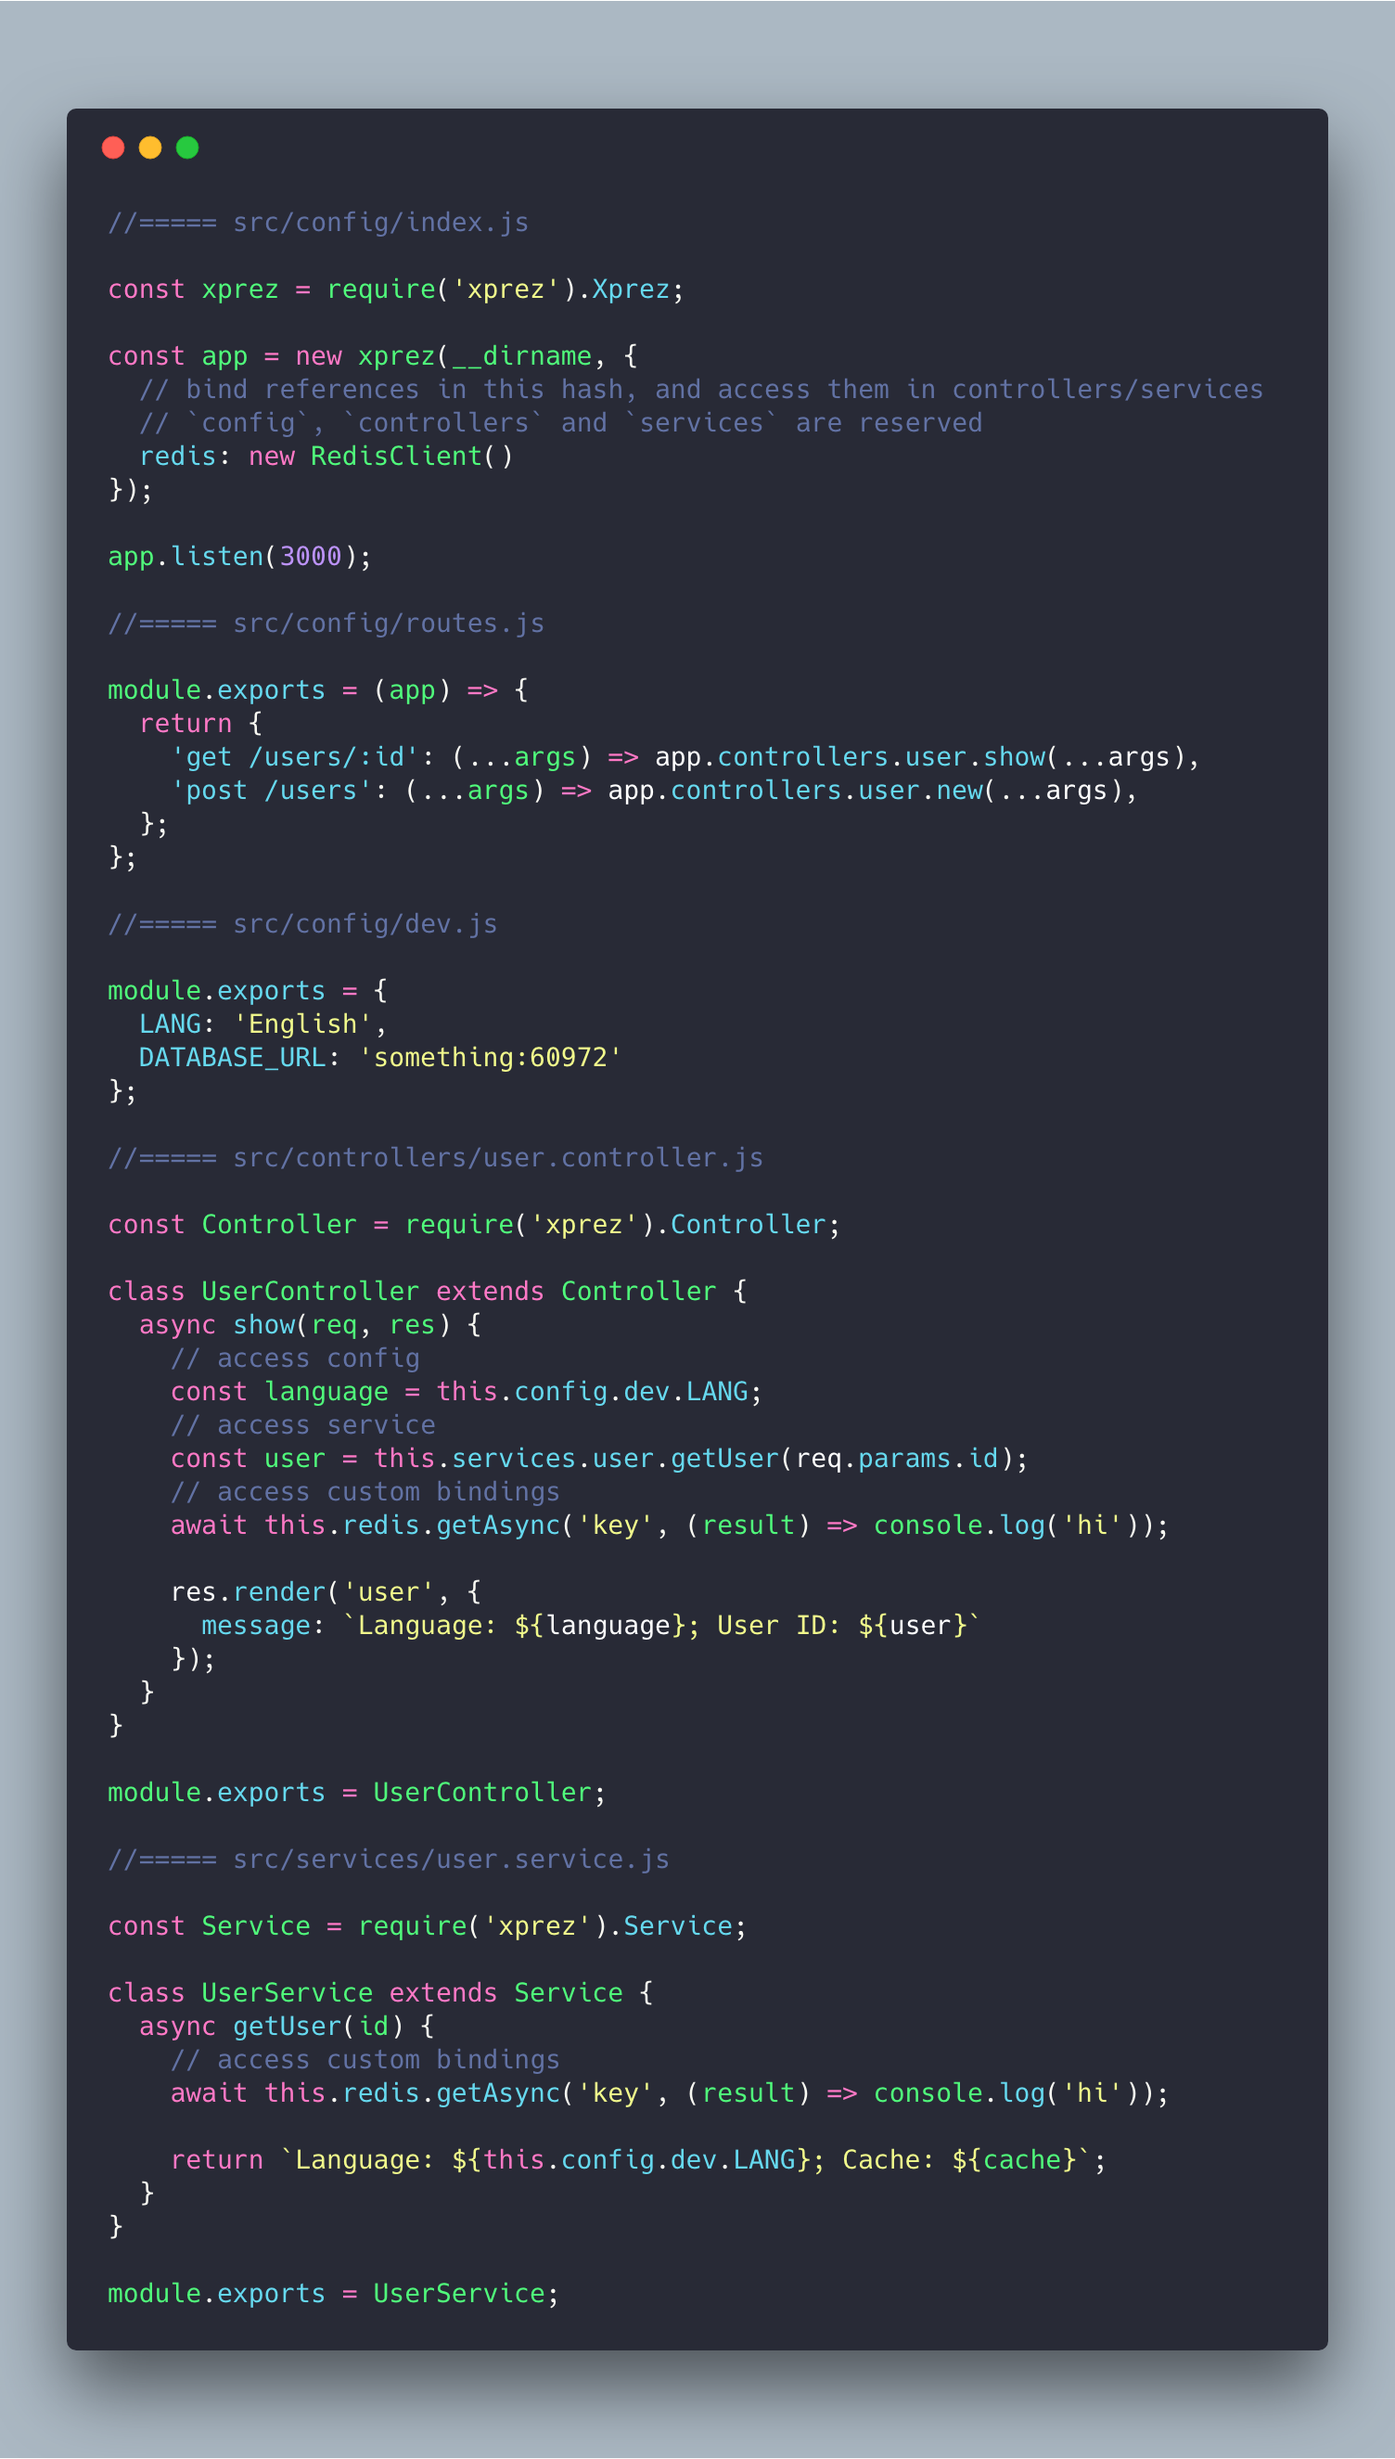
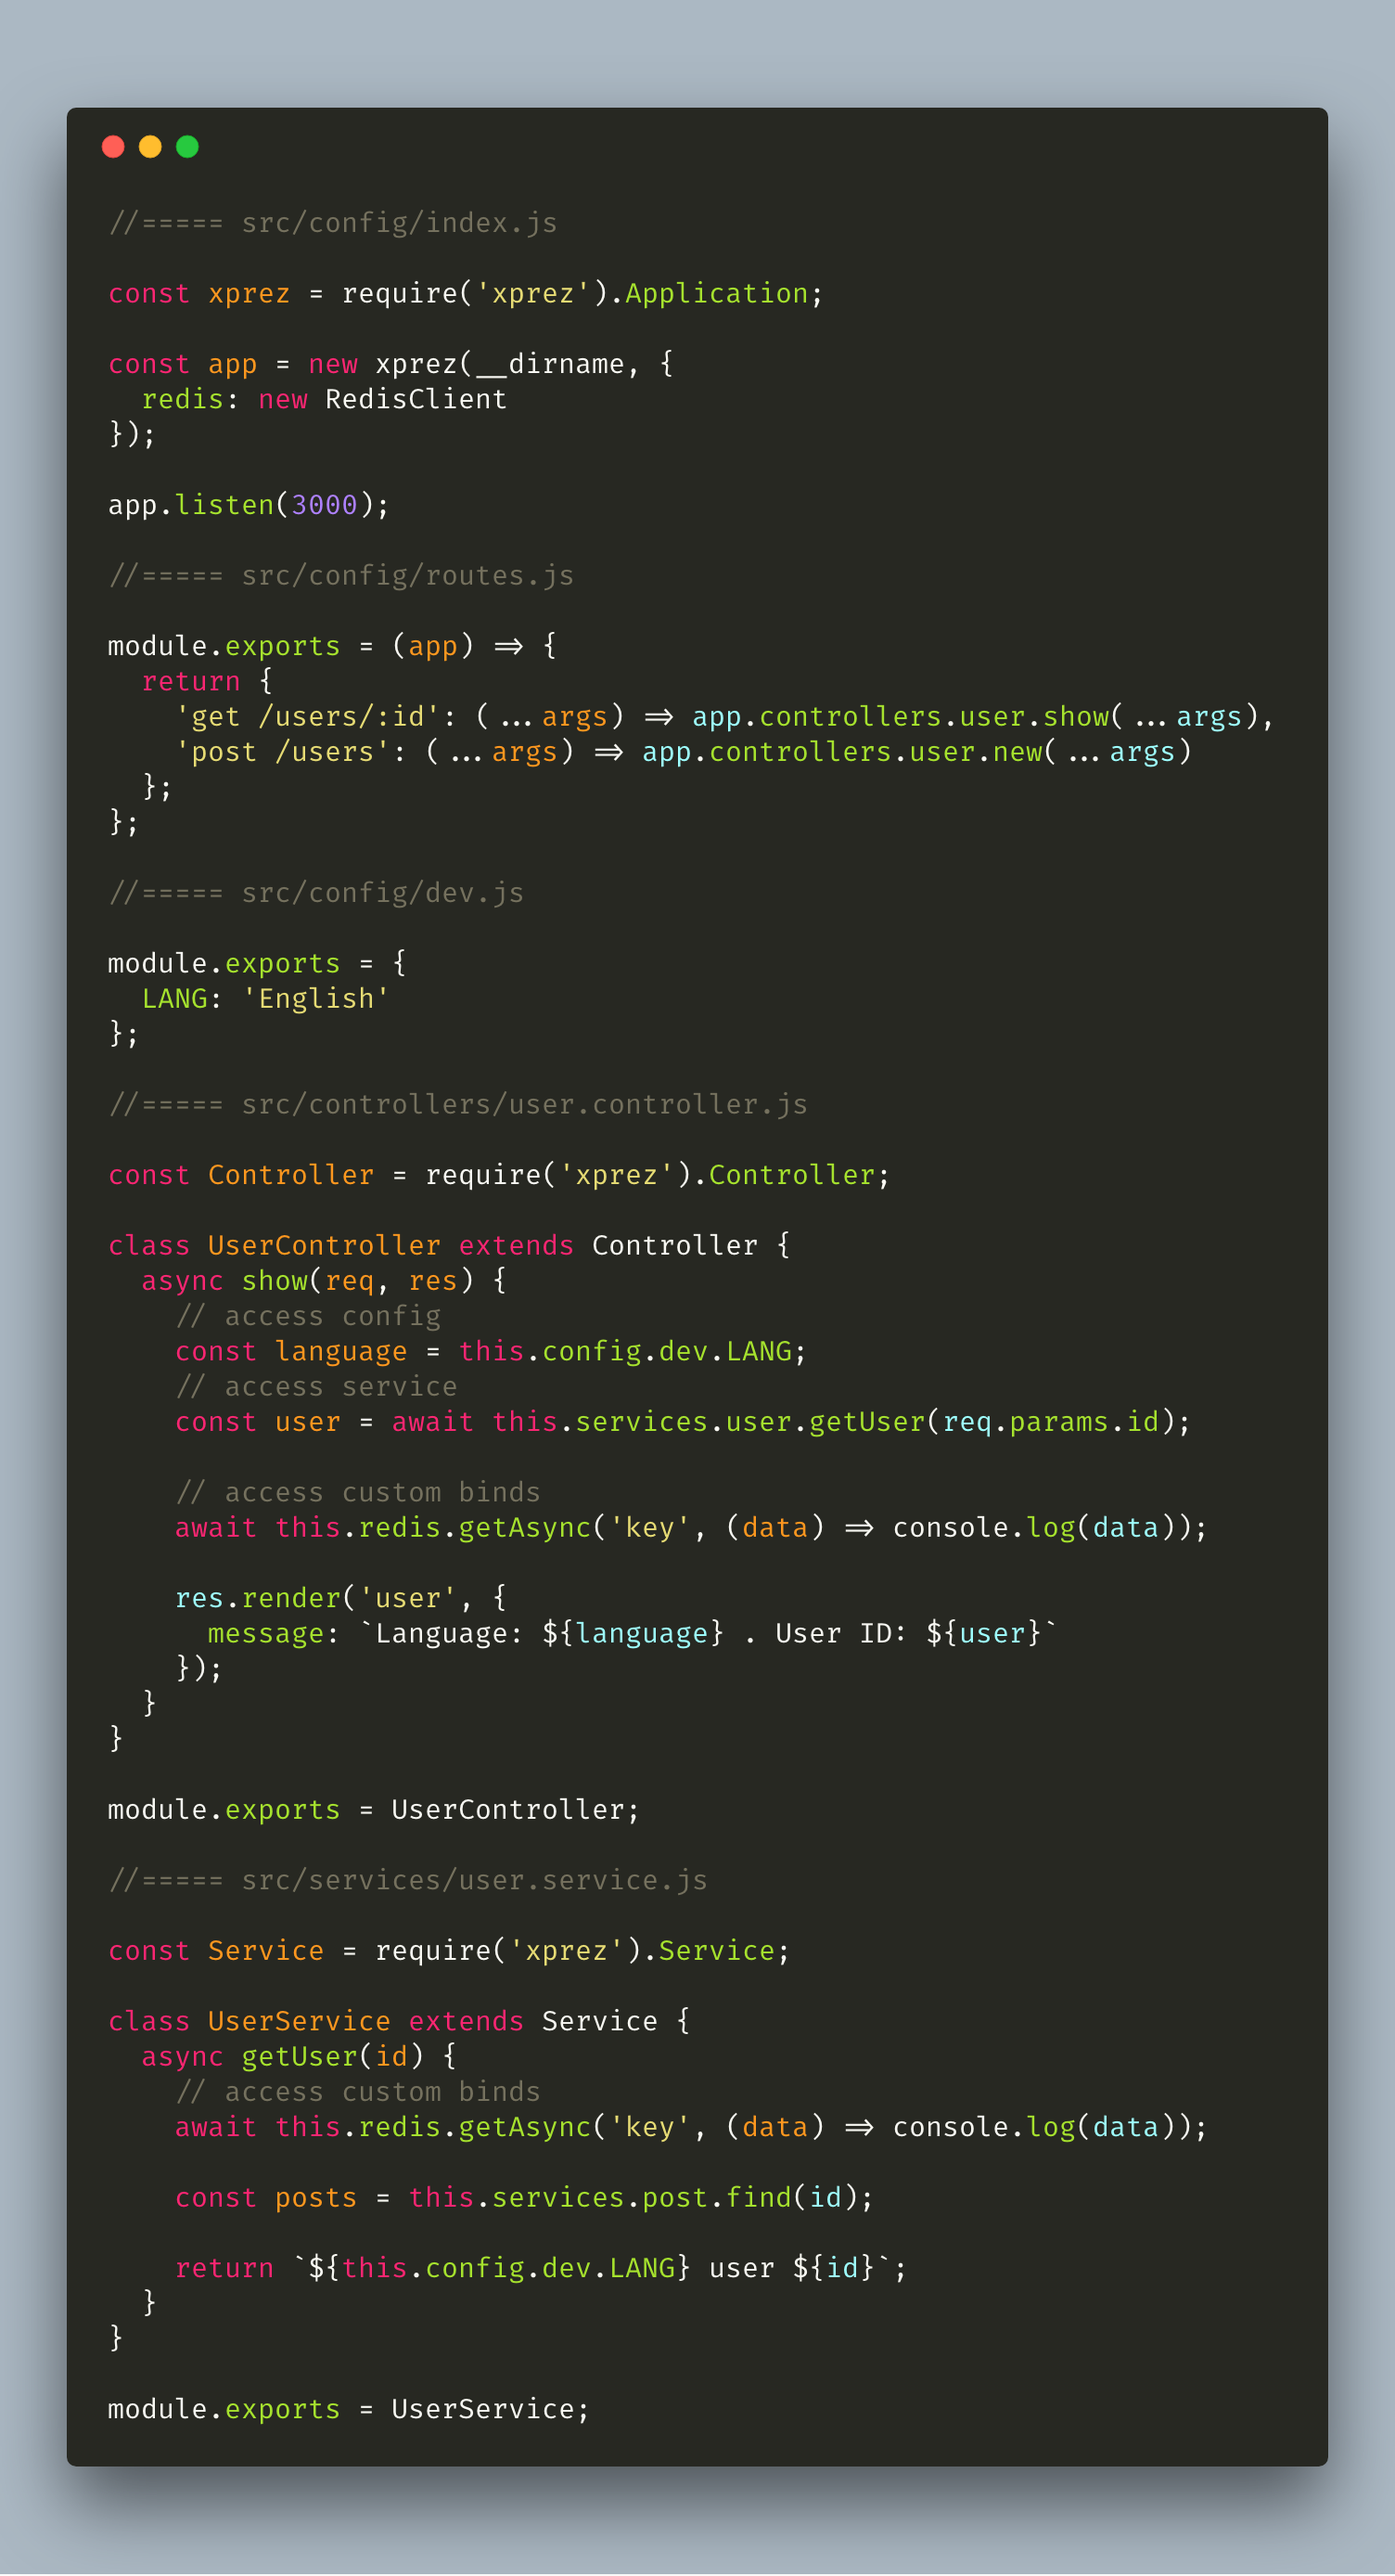
fixed router error

diff --git a/lib/loader/index.js b/lib/loader/index.js
@@ -1,5 +1,6 @@
+'use strict';
+
 const fs = require('fs');
-const path = require('path');
 
 /**
  * This method loads from a folder and returns an 
@@ -7,21 +8,18 @@ const path = require('path');
  * 
  * @param {string} path A folder to be loaded from
  */
-
-const load = (path) => {
+module.exports = (path) => {
   const dir = fs.readdirSync(path);
  
   const arr = dir.filter((file) => {
-      const name = file.split('.')[0];
+    const name = file.split('.')[0];
 
-      return name !== 'index' && name !== 'routes';
-    }).map((file) => {
-      const module = require(`${path}/${file}`);
+    return !name.match(/^(index|routes)$/);
+  }).map((file) => {
+    const module = require(`${path}/${file}`);
 
-      return { name: file.split('.')[0], module };
-    });
+    return { name: file.split('.')[0], module };
+  });
 
   return arr;
 };
-
-module.exports = (path) => load(path);

diff --git a/lib/application.js b/lib/application.js
@@ -1,12 +1,14 @@
+'use strict';
+
 const Express = require('express');
 const path = require('path');
 const ejs = require('ejs');
 
-const router = require('./middleware/router');
+const router = require('./middlewares/router');
 const modules = require('./modules');
 const load = require('./loader');
 
-class Xprez extends Express {
+class Application extends Express {
 
   /**
    * App constructor.
@@ -18,7 +20,6 @@ class Xprez extends Express {
    * @param {string} folderPath Path to the `src` folder
    * @param {object} binds A set of objects user would like to access in Controllers & Services
    */
-  
   constructor(folderPath, binds = {}) {
     super();
 
@@ -44,7 +45,7 @@ class Xprez extends Express {
 }
 
 module.exports = {
-  Xprez,
+  Application,
   Controller: modules.Controller,
   Service: modules.Service
 };

diff --git a/lib/middlewares/router.js b/lib/middlewares/router.js
@@ -1,0 +1,29 @@
+'use strict';
+
+const express = require('express');
+const morgan = require('morgan');
+
+/**
+ * Iterates through each defined routes and configures the
+ * Express router based on the specified HTTP methods 
+ * and callback functions.
+ * 
+ * @param {object} app The Express app object reference
+ * @param {string} folderPath File path of 'src/config/routes.js'
+ */
+const router = (app, folderPath) => {
+  app.use(morgan('common'));
+
+  const router = express.Router();
+  const routes = require(folderPath + '/routes')(app);
+
+  Object.entries(routes).forEach(([key, callback]) => {
+    const [action, endpoint] = key.split(' ');
+
+    router[action](endpoint, callback);
+  });
+
+  return router;
+};
+
+module.exports = (app, folderPath) => router(app, folderPath);

diff --git a/lib/modules/base-class.js b/lib/modules/base-class.js
@@ -1,7 +1,8 @@
+'use strict';
+
 /**
  * Base Class for Controllers and Services to extend from.
  */
-
 class BaseClass {
 
   /**
@@ -10,7 +11,6 @@ class BaseClass {
    * @constructor
    * @param {object} app Reference to the Express app object
    */
-
   constructor(app) {
     const { config, services } = app;
 
@@ -18,10 +18,12 @@ class BaseClass {
     this.services = services;
 
     Object.entries(app.userBindings).forEach(([key, value]) => {
-      if (key !== 'config' && key !== 'services' && key !== 'controllers') {
-        this[key] = value;
-      } else {
+      key = key.toLowerCase();
+
+      if (key.match(/^(config|services|controllers)$/)) {
         throw 'InvalidBindKeyError';
+      } else {
+        this[key] = value;
       }
     });
   }

diff --git a/example/src/config/index.js b/example/src/config/index.js
@@ -1,6 +1,8 @@
-const xprez = require('../../..').Xprez;
+const xprez = require('../../..').Application;
 
 const app = new xprez(__dirname, {
+  // bind references in this hash
+  // `config`, `controllers` and `services` are reserved keywords
   redis: 'Random Redis Client'
 });
 

diff --git a/example/src/controllers/user.controller.js b/example/src/controllers/user.controller.js
@@ -7,6 +7,7 @@ class UserController extends Controller {
     // access service
     const user = this.services.user.getUser(req.params.id);
 
+    // access custom binds
     console.log(this.redis);
 
     res.render('user', {

diff --git a/lib/modules/index.js b/lib/modules/index.js
@@ -1,3 +1,5 @@
+'use strict';
+
 const BaseClass = require('./base-class');
 
 module.exports = {

diff --git a/README.md b/README.md
@@ -8,6 +8,9 @@ To install, run `npm i xprez --save`.
 To contribute, please first clone the repo, then run `npm install`.
 
 ### Example code
+
+Sample directory is located in `./example`. 
+
 ![Example Code](./code.png)
 
 ### Required Folder Structure
